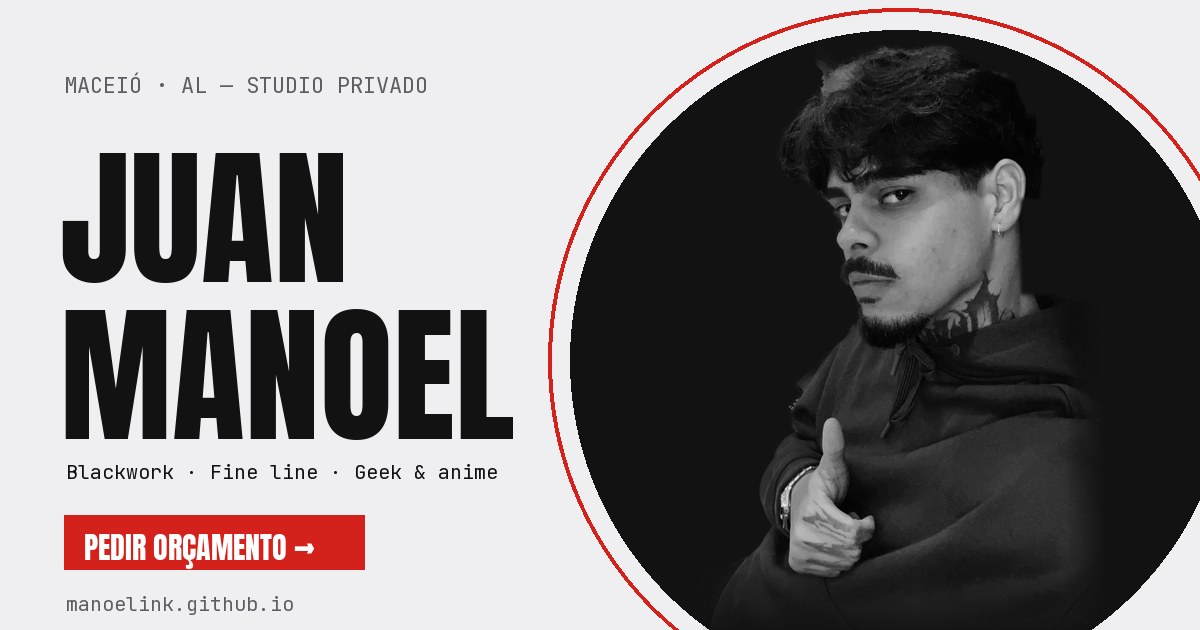
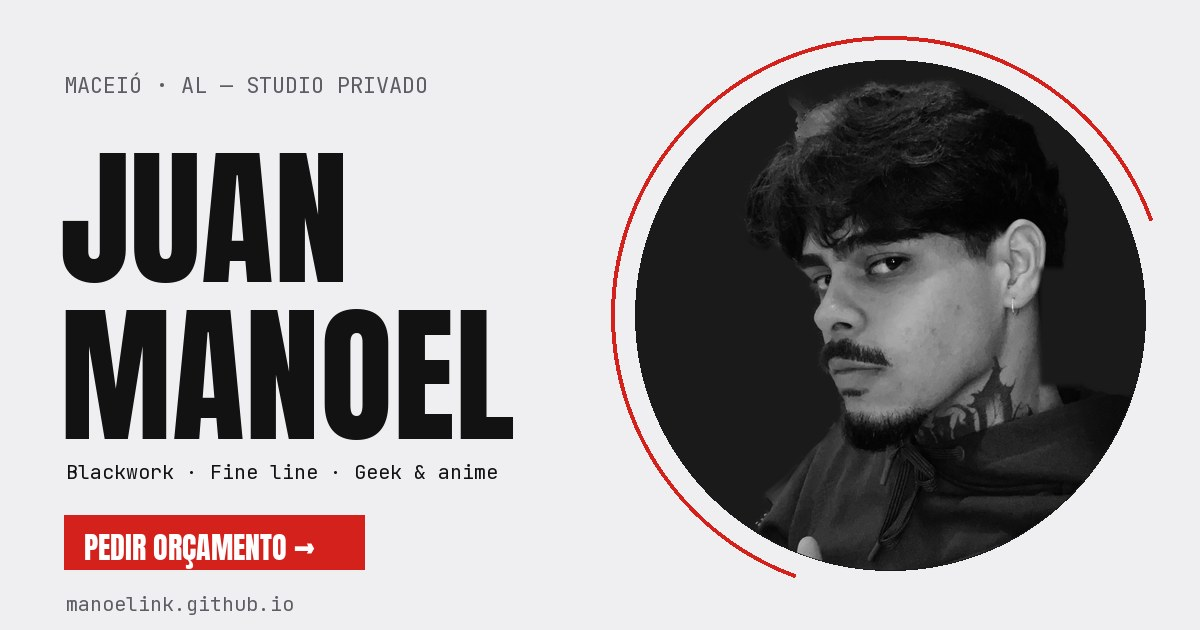
Hero: foto redonda preenchendo a bola inteira (sem bordas cortadas)
A bola agora aparece inteira em qualquer tela e a foto é recortada no
próprio círculo; prévia do link atualizada no mesmo estilo.

Changed region(s): [[0.4317, 0.0, 1.0, 1.0]]

diff --git a/manoel-ink/script.js b/manoel-ink/script.js
@@ -389,7 +389,7 @@ if (finePointer && !reduce) {
       el.style.translate = `${dx * d}px ${dy * d}px`;
     });
     const photo = hv.querySelector(".hero-photo");
-    if (photo) photo.style.translate = `${dx * -0.015}px ${dy * -0.01}px`;
+    if (photo) photo.style.translate = `${dx * 0.02}px ${dy * 0.02}px`;
   });
 }
 
@@ -476,25 +476,23 @@ document.querySelectorAll("[data-count]").forEach((el) => countIO.observe(el));
   if (CHANNEL === "wa") $("#ctaBarIg").href = waLink("Oi, Manoel! Vim pelo site e quero fazer uma tattoo.");
 }
 
-/* foto do hero: centralizada na bola, em qualquer tamanho de tela */
+/* hero: bola inteira na tela, com a foto redonda preenchendo ela (sem bordas cortadas) */
 {
-  const hv = $("#heroVisual"), orb = hv && hv.querySelector(".orb");
+  const hv = $("#heroVisual"), orb = hv && hv.querySelector(".orb"), arc = hv && hv.querySelector(".arc");
   const place = () => {
     const img = hv && hv.querySelector("img.hero-photo");
-    if (!img || !img.naturalWidth) return;
-    // parte VISÍVEL da bola (ela é cortada pelas bordas do hero conforme a tela)
-    const D = orb.offsetWidth, L = orb.offsetLeft, T = orb.offsetTop;
-    const x0 = Math.max(L, 0), y0 = Math.max(T, 0);
-    const x1 = Math.min(L + D, hv.offsetWidth), y1 = Math.min(T + D, hv.offsetHeight);
-    const vw = x1 - x0, vh = y1 - y0, ratio = img.naturalWidth / img.naturalHeight;
-    const h = Math.min(vh * 0.86, (vw * 0.95) / ratio), w = h * ratio;
-    const cx = x0 + vw / 2, cy = y0 + vh / 2 + vh * 0.03;
-    Object.assign(img.style, {
-      height: h + "px", width: w + "px", margin: "0", bottom: "auto",
-      left: (cx - w * 0.5) + "px", top: (cy - h * 0.5) + "px",
-    });
+    if (!img) return;
+    const W = hv.offsetWidth, H = hv.offsetHeight;
+    const D = Math.min(W * 0.97, H * 0.84);
+    const cx = W * (innerWidth > 860 ? 0.5 : 0.5), cy = H / 2;
+    const L = cx - D / 2, T = cy - D / 2;
+    const box = { left: L + "px", top: T + "px", width: D + "px", height: D + "px", margin: "0", right: "auto", bottom: "auto" };
+    Object.assign(orb.style, box);
+    Object.assign(img.style, box);
+    const A = D * 1.1;
+    Object.assign(arc.style, { left: (cx - A / 2) + "px", top: (cy - A / 2) + "px", width: A + "px", height: A + "px" });
   };
-  const img = hv && hv.querySelector("img.hero-photo");
-  if (img) { img.complete ? place() : img.addEventListener("load", place); }
+  place();
   addEventListener("resize", place);
+  addEventListener("load", place);
 }

diff --git a/manoel-ink/style.css b/manoel-ink/style.css
@@ -717,3 +717,9 @@ img.hero-photo {
 .about-photo { overflow: hidden; }
 .about-img { filter: none; transition: transform .8s var(--ease); }
 .about-photo:hover .about-img { filter: none; transform: scale(1.03); }
+
+/* hero: foto redonda = a própria bola */
+img.hero-photo { border-radius: 50%; object-fit: cover; object-position: center; max-width: none; max-height: none; filter: none; animation: orbIn 1.4s var(--ease) both; }
+.hero-visual .orb { aspect-ratio: auto; box-shadow: 0 30px 60px -20px rgba(0,0,0,.45); }
+.hero-visual .arc { aspect-ratio: auto; }
+@media (max-width: 860px) { .hero-visual { height: min(100vw, 560px); } }
